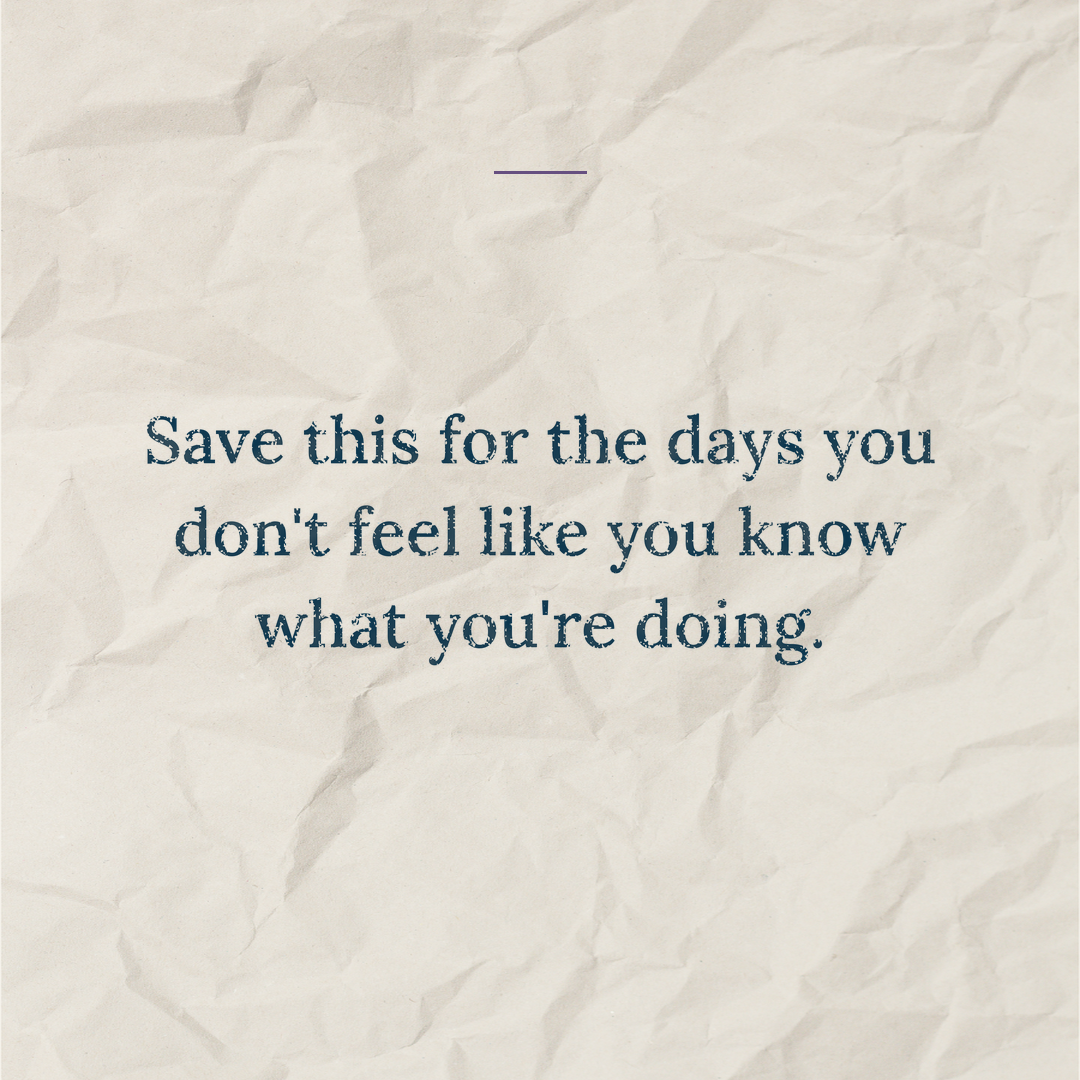
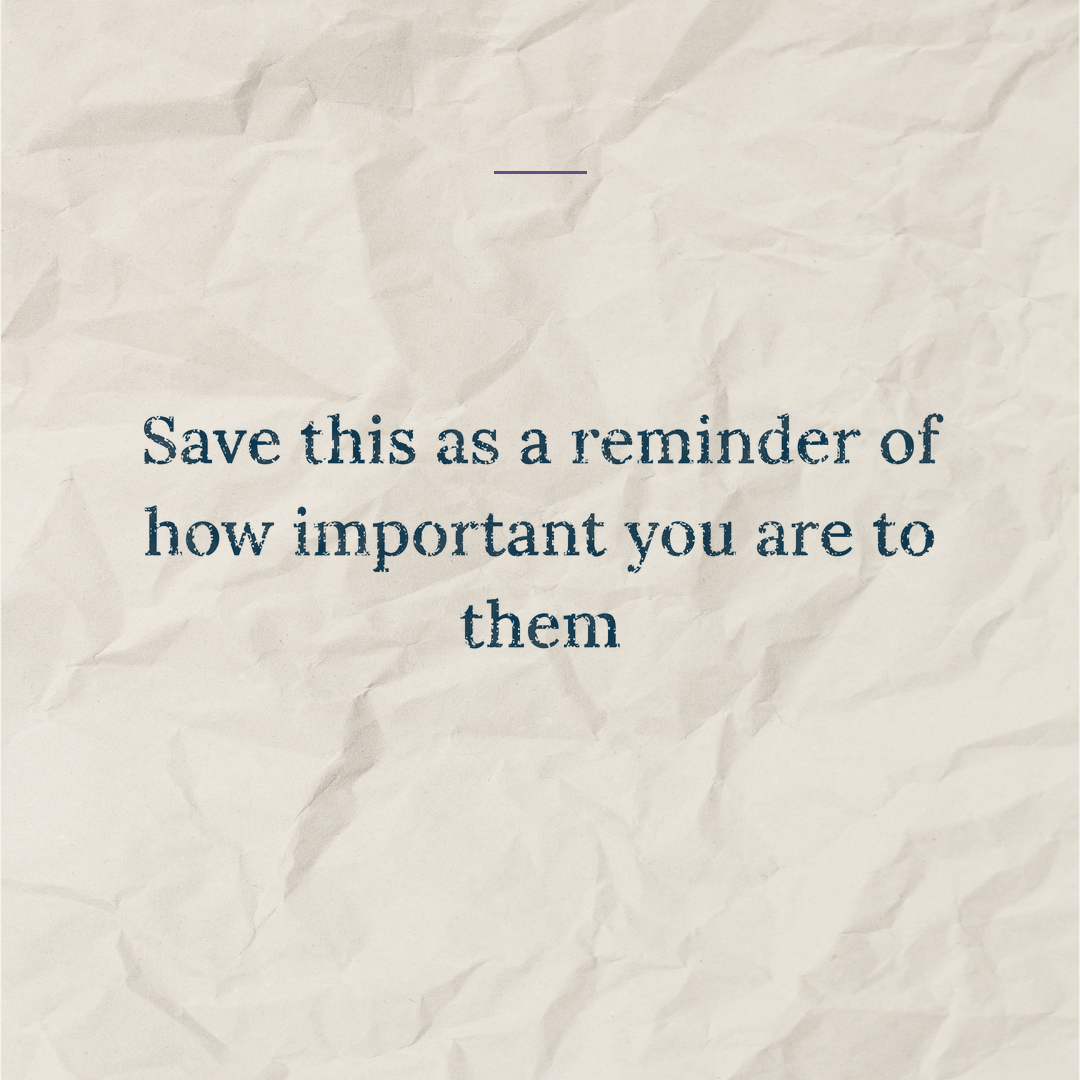
Add 51-version-of-you-they-trust (51 - Version Of You They Trust)

Changed region(s): [[0.1222, 0.3667, 0.8861, 0.6111], [0.8556, 0.3667, 0.8861, 0.3972]]

diff --git a/posts/51-version-of-you-they-trust/slides.md b/posts/51-version-of-you-they-trust/slides.md
@@ -13,6 +13,8 @@ The version of you they already trust more than anyone else…
 05  The one they reach for first, every single time
 
 ## Closer (save)
-Save this for the days you don't feel like you know what you're doing.
+Save this as a reminder of how important you are to them
+
+REVISED 2026-08-16 per Ben's review (closer wording only) — see feedback memory drift-generic-closer-ctas.
 
 Render with render_keepsake_cover / render_keepsake_items_for_post / render_keepsake_follow (render_keepsake_save alias), weight 550.
